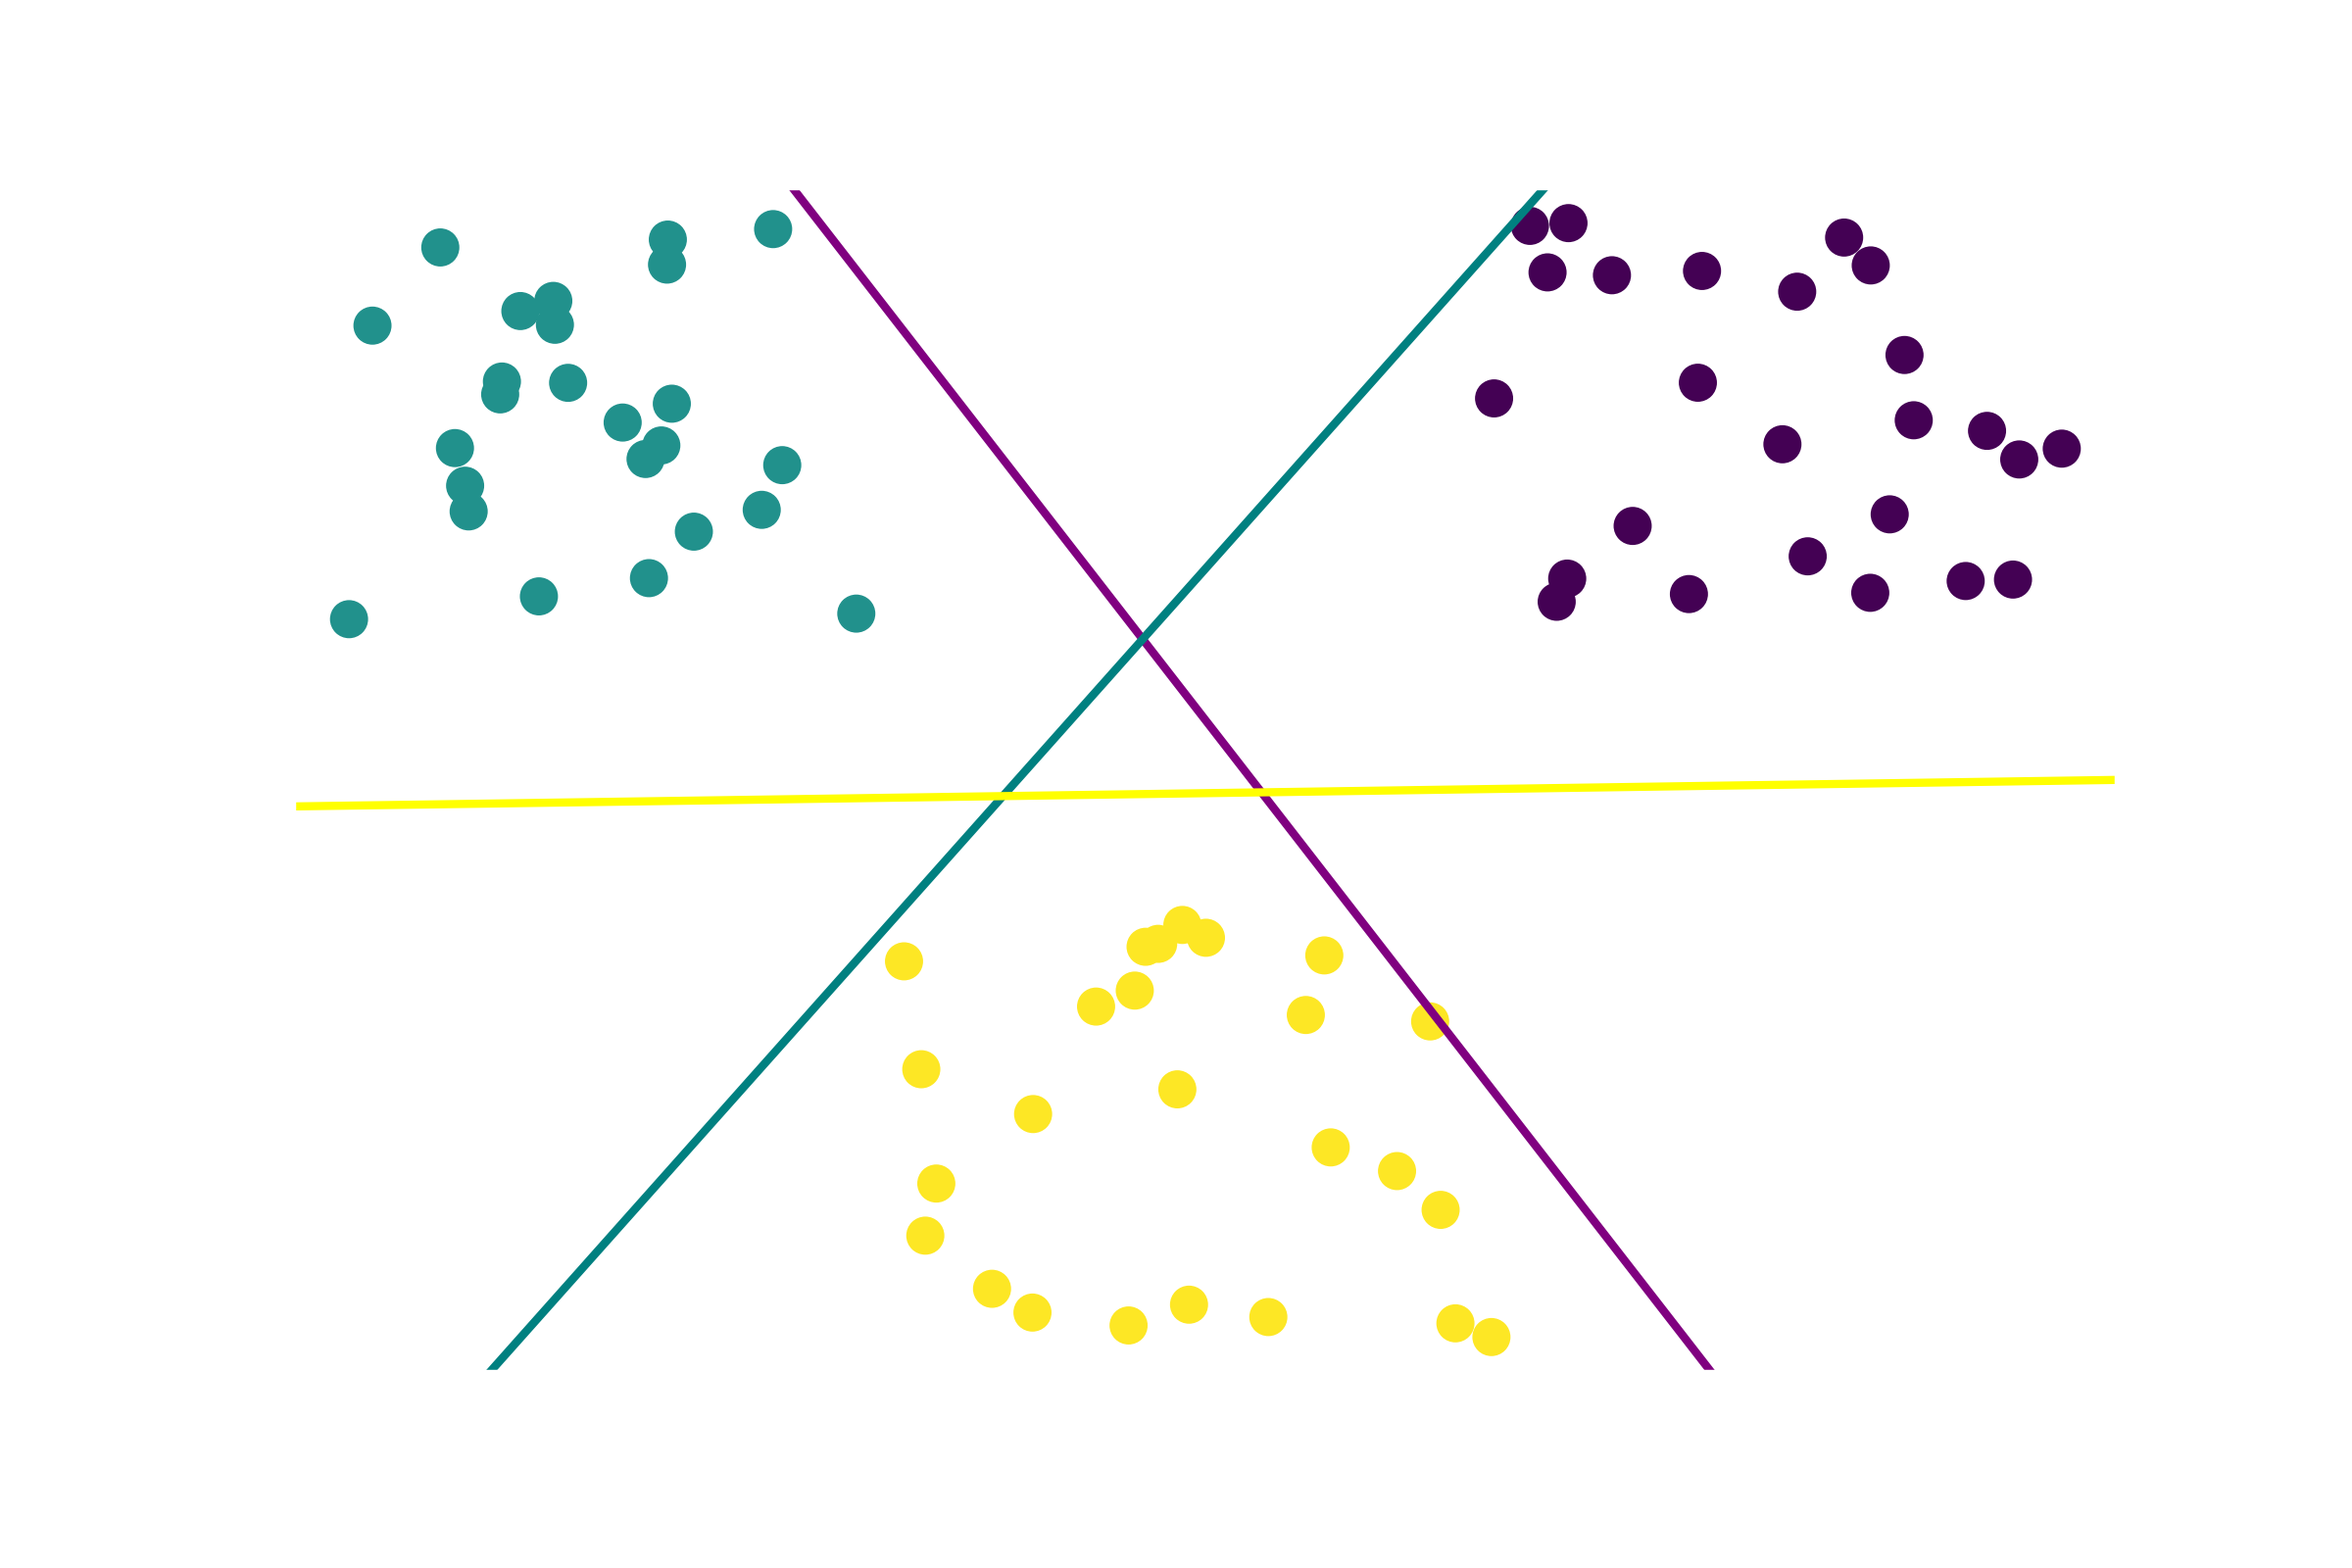
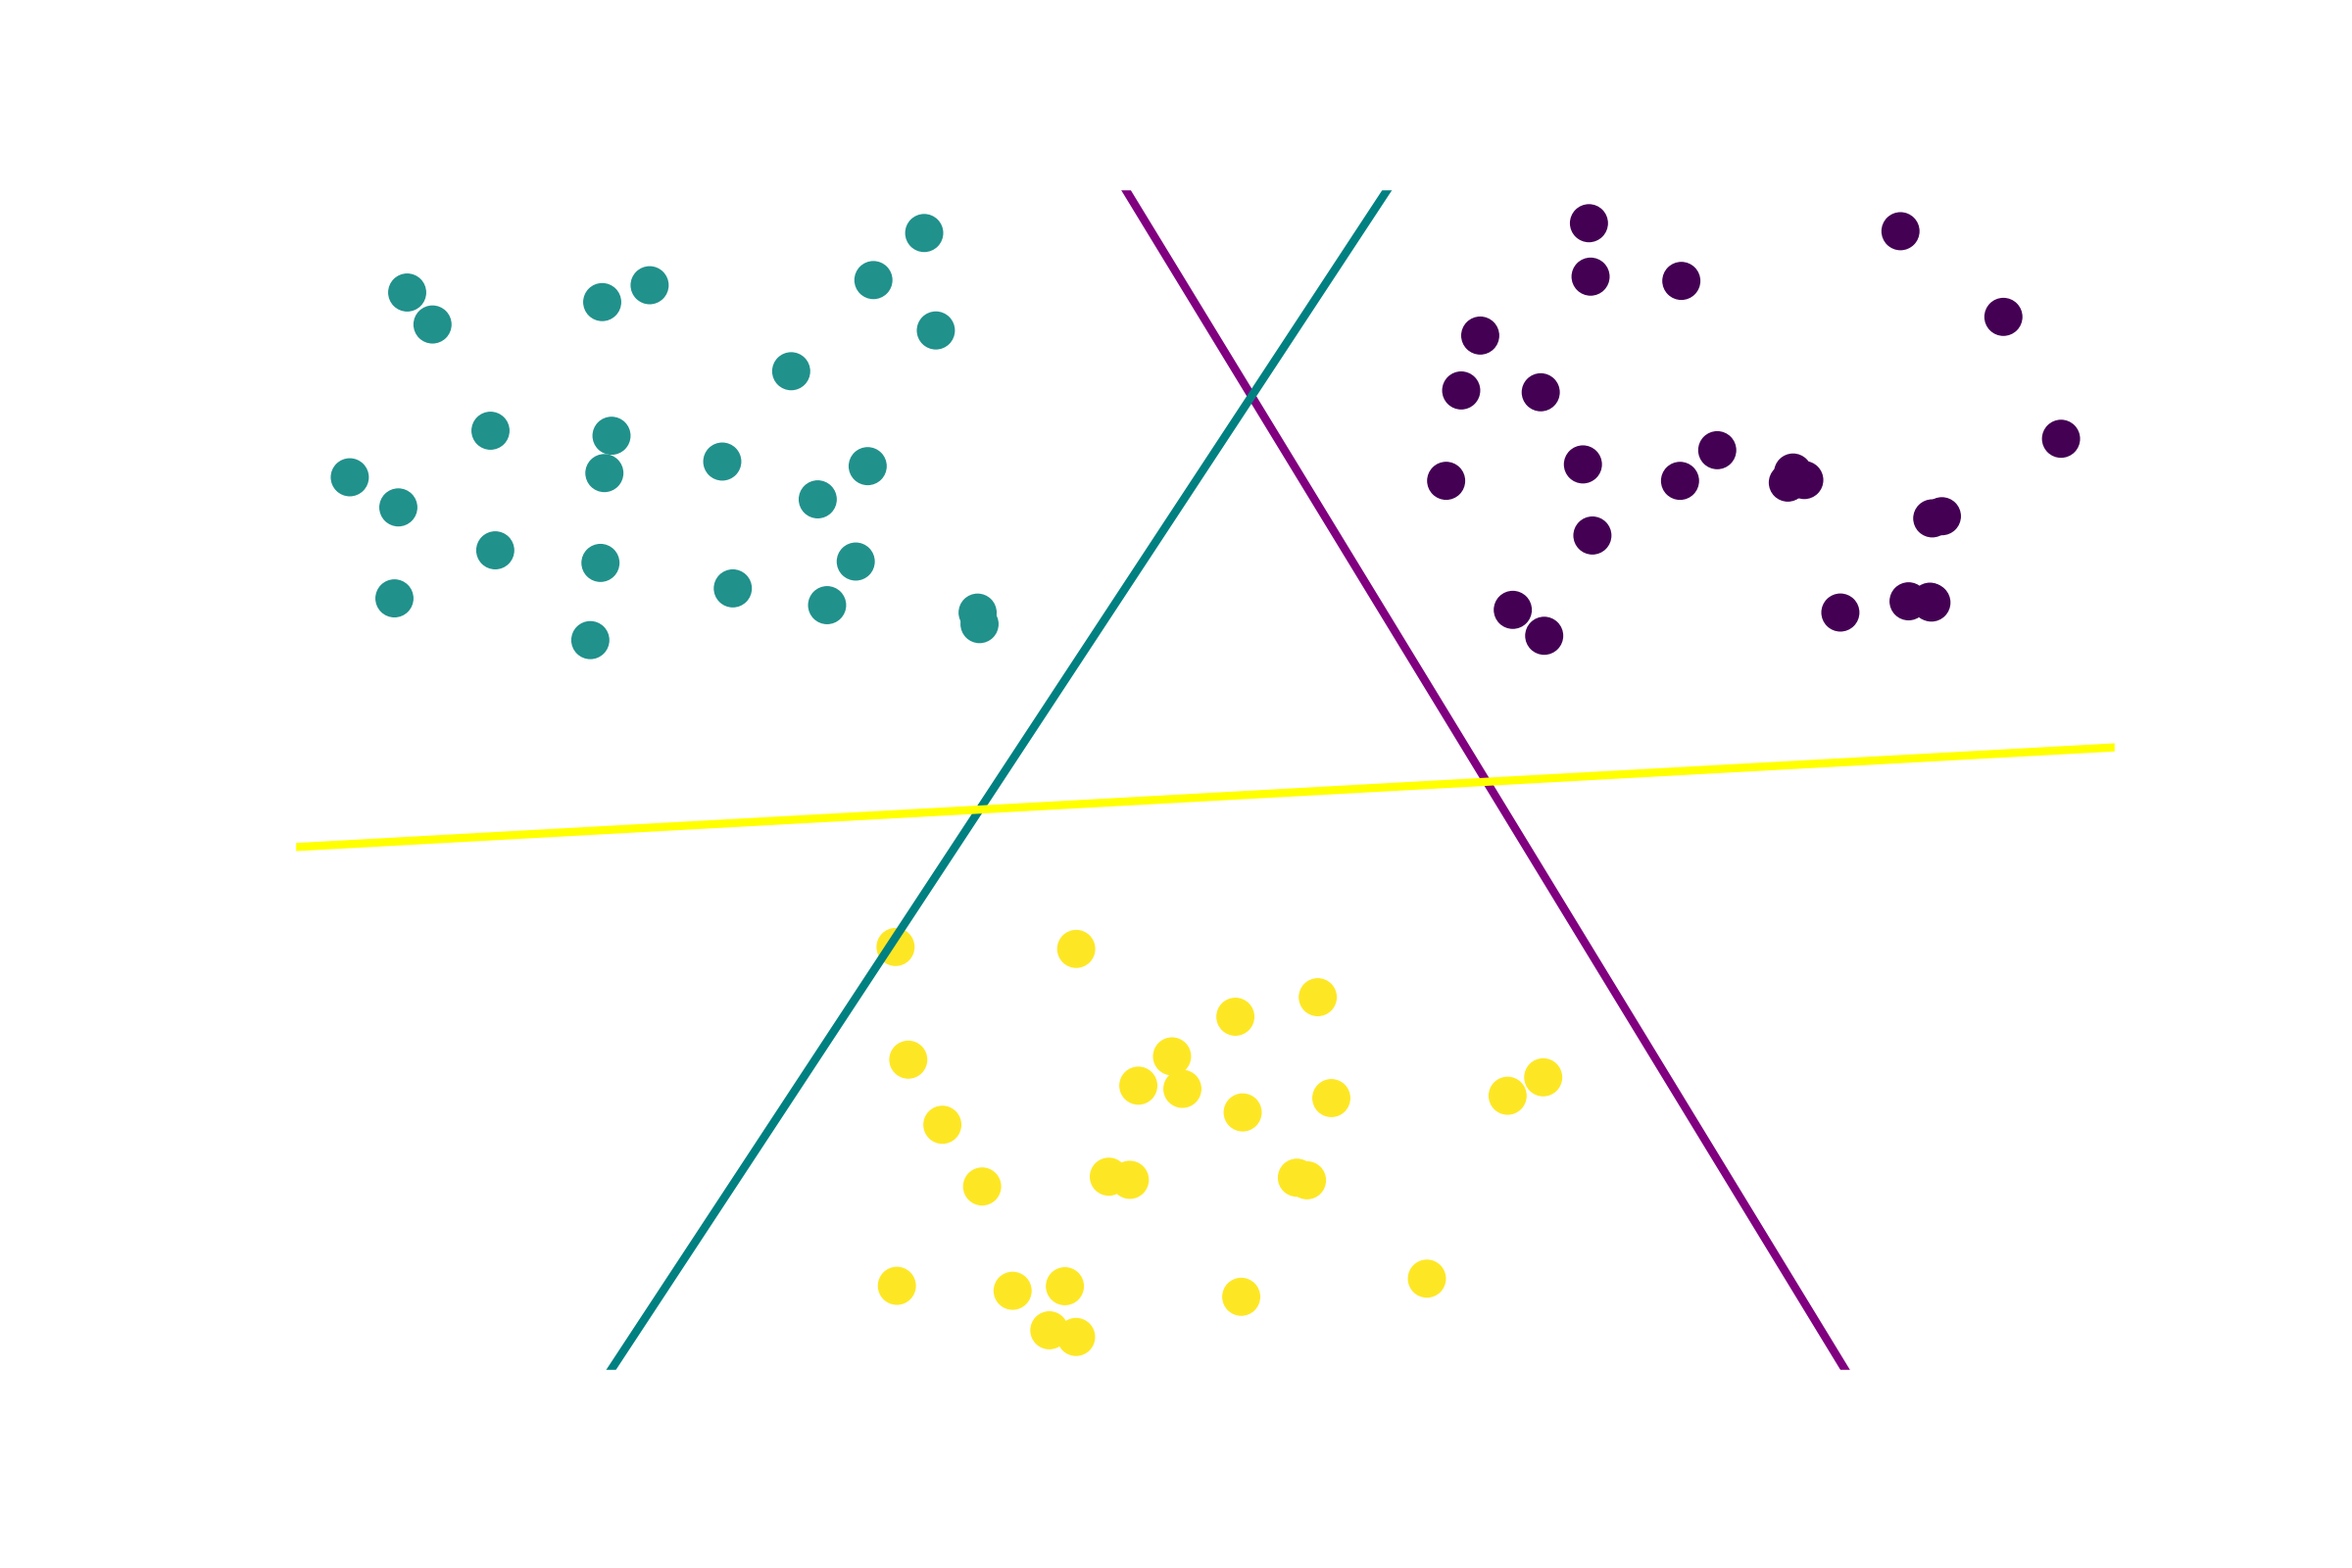
Typo fix

diff --git a/sections/preliminaries/perceptrons.md b/sections/preliminaries/perceptrons.md
@@ -138,7 +138,7 @@ direction of $$w$$. In other words, the direction of the weight vector $$w$$,
 which is by definition perpendicular to the hyperplane it defines, determines
 which class either side of the hyperplane will be. 
 
-### Multiple classes 
+### Multiple classes <a name="Multiple classes"></a>
 
 To generalise this to the multiclass setting ($$k \geq 2$$), some extra work is
 required. The $$m^{th}$$ LTU is trained to return $$1$$ if a point is in class
@@ -274,12 +274,12 @@ Differentiating this function with respect to $$w_j$$ gives:
 $$\begin{align}\label{L3}\tag{L3}
 \nabla \{\,Q_{w_j}(x_i)\, \} &=
   \begin{cases} 
-    &0 &&\mathrm{when} \,\, sgn(y_i) = sgn(w_j^Tx_i) \\
+    &0 &&\mathrm{when} \,\, sgn(y_{i,j}) = sgn(w_j^Tx_i) \\
     &y_{i,j} \, \nabla \{w_j^T x_i\} &&\mathrm{otherwise} 
   \end{cases} \\
 &=
   \begin{cases} 
-    &0 &&\mathrm{when} \,\, sgn(y_i) = sgn(w_j^Tx_i) \\
+    &0 &&\mathrm{when} \,\, sgn(y_{i,j}) = sgn(w_j^Tx_i) \\
     &y_{i,j} x_i &&\mathrm{otherwise} 
   \end{cases} \\
 \end{align}$$
@@ -296,7 +296,7 @@ w_j^{(new)} &=
 &= w_j^{(old)} + \mathbf{1}(y_{i,j}=\hat{y}_{i,j}) \, \eta \,y_{i,j} x_i
 \end{align}$$ 
 
-which is cleary equivalent to the formulation given in above.
+where $$\mathbf{1}(A)$$ is the indicator function for condition $$A$$. It is not hard to see this is equivalent to the formulation given above, with minor notational adjustment.
 
 ### Properties
 
@@ -518,25 +518,97 @@ Now consider the case when there are 3 linearly separable classes. The block
 below generates such data, and produces labels from $$0 - 2$$.
 
 ```python
-plt.plot(np.arange(num_iters), err, label='error')
-plt.legend()
-plt.title('Error vs number of iterations')
+# make a linearly separable 3 class problem in the plane
+c1 = [5,5] + (np.random.rand(25,2)*5) - 2.5
+c2 = [-5,5] + (np.random.rand(25,2)*5) - 2.5
+c3 = [0,-5] + (np.random.rand(25,2)*5) - 2.5
+x = np.concatenate([c1,c2,c3])
+y_star = np.concatenate([np.repeat(0,25),np.repeat(1,25),np.repeat(2,25)])
+```
+Next, fit a perceptron to the data, and extract the three decision boundaries
+for associated _1 vs the rest_ problems:
+
+```python
+# fit linear decision boundary for each 1 vs the rest problem
+p = Perceptron(tol=None)
+p.fit(x,y_star)
+
+# calculate linear decision boundary lines for each 1 vs the rest problem
+decision_x = np.arange(start=x[:,0].min(),stop=x[:,1].max(),step=0.05)
+linear_sep_1 = (-p.intercept_[0]/p.coef_[0][1]) - (p.coef_[0][0]/p.coef_[0][1])*decision_x
+linear_sep_2 = (-p.intercept_[1]/p.coef_[1][1]) - (p.coef_[1][0]/p.coef_[1][1])*decision_x
+linear_sep_3 = (-p.intercept_[2]/p.coef_[2][1]) - (p.coef_[2][0]/p.coef_[2][1])*decision_x
+
+# plot the classification problem and fitted decision boundaries
+# for each of the 1 vs the rest problems
+fig, ax = plt.subplots()
+ax.scatter(x[:,0],x[:,1],c=y_star)
+ax.plot(decision_x,linear_sep_1,color='purple')
+ax.plot(decision_x,linear_sep_2,color='teal')
+ax.plot(decision_x,linear_sep_3,color='yellow')
+plt.ylim([x.min()-1,x.max()+1])
 ```
 
+![](/assets/images/perceptron6.png){: .center-image}
 
+As discussed <a href="i#Multiple classes">above</a>, these 1 vs the rest
+decision boundaries are not so useful for classifying new points, hence the
+maximum margin decision boundaries are used. The Perceptron class provided by
+_scikit-learn_ handles this automatically, by reporting the margin to each
+decision boundary for each point via the `decision_function()` method. This
+way, any new point can be classified by checking the index of the maximum
+value of this output. The maximum margin decision boundaries can also be
+derived analytically with some simple algebra. Both are plotted below.
 
-### Perceptron Learning Algorithm (todo)
+```python
+# make a grid of points to classify
+points = np.meshgrid(decision_x,decision_x,indexing='ij')
+x1 = points[0].reshape(-1,1)
+x2 = points[1].reshape(-1,1)
+xx = np.concatenate([x1,x2],axis=1)
 
-* specify algorithm
-* add proof of convergence (under linear separability assumption)
+# get the class of each point in the grid
+y_grid = np.argmax(p.decision_function(xx), axis=1)
 
-### Limitations (todo)
+# compute the maximum margin decision boundaires analytically
 
- * Does not output class probabilities
- * Only works if data is linearly separable
+# compute point where maximum margin decision bound intersect
+b13, b23 = p.intercept_[0] - p.intercept_[2], p.intercept_[1] - p.intercept_[2]
+w2232, w1232 = p.coef_[1,1] - p.coef_[2,1], p.coef_[0,1] - p.coef_[2,1]
+w2131, w1131 = p.coef_[1,0] - p.coef_[2,0], p.coef_[0,0] - p.coef_[2,0]
+numerator = (b13/w1232) - (b23/w2232)
+denominator = (w2131/w2232) - (w1131/w1232)
+x_intersect = numerator/denominator
 
-## Implementation (todo)
+# compute domain for each of the boundaries
+lower_x = np.arange(start=x.min()-1,stop=x_intersect,step=0.01)
+upper_x = np.arange(start=x_intersect,stop=x.max()+1,step=0.01)
 
- * Python - sklearn
- * Python - custom
- * julia - custom
+# specify each of the maximum margin decision boundaries
+decision_boundary_1 = \
+    - (p.intercept_[1] - p.intercept_[2])/(p.coef_[1,1] - p.coef_[2,1]) \
+    - ((p.coef_[1,0] - p.coef_[2,0])/(p.coef_[1,1] - p.coef_[2,1])) * lower_x
+decision_boundary_2 = \
+    - (p.intercept_[0] - p.intercept_[1])/(p.coef_[0,1] - p.coef_[1,1]) \
+    - ((p.coef_[0,0] - p.coef_[1,0])/(p.coef_[0,1] - p.coef_[1,1])) * upper_x
+decision_boundary_3 = \
+    - (p.intercept_[0] - p.intercept_[2])/(p.coef_[0,1] - p.coef_[2,1]) \
+    - ((p.coef_[0,0] - p.coef_[2,0])/(p.coef_[0,1] - p.coef_[2,1])) * upper_x
+
+# visualise
+fig, ax = plt.subplots()
+ax.scatter(x[:,0], x[:,1], c=y_star)
+ax.scatter(xx[:,0], xx[:,1] ,c=y_grid, alpha=0.1, s=0.5)
+ax.plot(lower_x, decision_boundary_1, color='red')
+ax.plot(upper_x, decision_boundary_2, color='red')
+ax.plot(upper_x, decision_boundary_3, color='red')
+plt.xlim([x[:,0].min()-0.5, x[:,0].max()+0.5])
+plt.ylim([x[:,1].min()-0.5, x[:,1].max()+0.5])
+```
+
+![](/assets/images/perceptron7.png){: .center-image}
+
+The shaded regions in the above plot represent the class for any new points in
+that region, and the red lines are the analytical maximum margin decision
+boundaries. 
+
